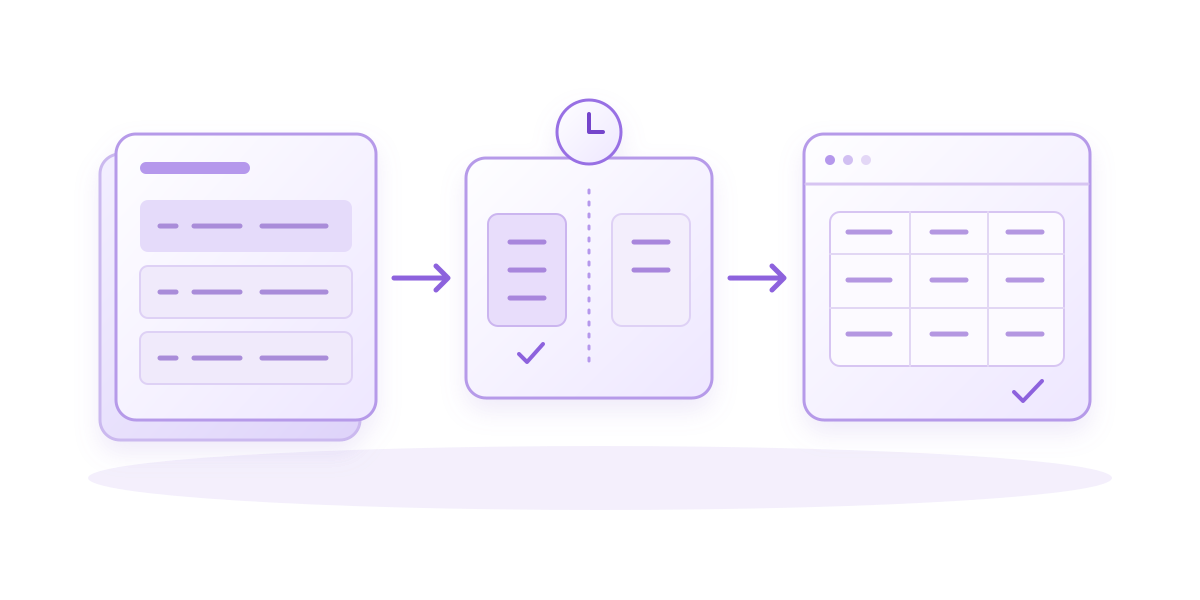
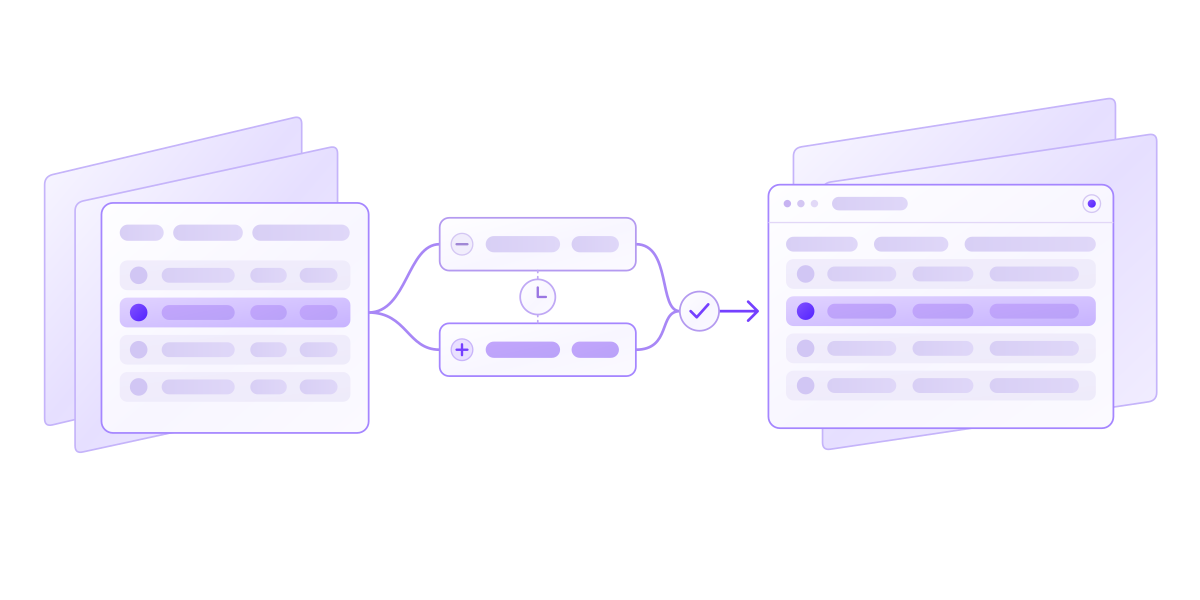
Refine Chapter 8 artwork and responsive layouts

diff --git a/tests/e2e/chapter-eight.spec.ts b/tests/e2e/chapter-eight.spec.ts
@@ -2,8 +2,79 @@ import { expect, seedChapterPrerequisites, test } from './fixtures';
 import { advanceGuidedLesson, expectGuideClearOfTargets } from './guided-run';
 import { subscriptionFrames, subscriptionLectures } from '../../src/chapters/live-applications-subscribe/lecture-scenarios';
 import { solutionFor, subscriptionExercises } from '../../src/chapters/live-applications-subscribe/exercise-scenarios';
+import { LAB_PROGRESS_KEY } from '../../src/progress/labProgress';
 
 const base = '/labs/live-applications-subscribe';
+
+for (const width of [320, 390, 480]) {
+  test(`Chapter 8 phone exercises keep complete table labels and reachable answers at ${width}px`, async ({ page }) => {
+    test.setTimeout(90000);
+    await page.setViewportSize({ width, height: 740 });
+    await page.emulateMedia({ reducedMotion: 'reduce' });
+    for (const exercise of subscriptionExercises) {
+      await page.goto(`${base}/exercises/${exercise.slug}`);
+      for (let question = 0; question < exercise.questions.length; question++) {
+        for (const accepted of [false, true]) {
+          if (accepted) await page.getByRole('button', { name: 'Show Answer', exact: true }).click();
+          const headers = await page.locator('.subscribe-table th').evaluateAll(cells => cells.map(cell => {
+            const range = document.createRange();
+            range.selectNodeContents(cell);
+            return { label: cell.textContent, textHeight: range.getBoundingClientRect().height, lineHeight: parseFloat(getComputedStyle(cell).lineHeight) };
+          }));
+          for (const header of headers) expect(header.textHeight, `${header.label} stays readable on one line`).toBeLessThanOrEqual(header.lineHeight + 1);
+          expect(await page.evaluate(() => document.documentElement.scrollWidth <= document.documentElement.clientWidth)).toBe(true);
+          const questionBox = (await page.locator('.exercise-question').boundingBox())!;
+          const evidence = (await page.getByTestId('subscribe-diagram').boundingBox())!;
+          expect(questionBox.y).toBeGreaterThanOrEqual(evidence.y + evidence.height);
+        }
+        const next = page.locator('[data-shortcut="exercise-forward"]');
+        await next.scrollIntoViewIfNeeded();
+        await expect(next).toBeInViewport();
+        if (question < exercise.questions.length - 1) await next.click();
+      }
+    }
+  });
+}
+
+test('Chapter 8 completed exercise checks match Chapter 7 without wrapping the header', async ({ page, isMobile }) => {
+  test.skip(isMobile, 'The chapter-specific absolute badge placement applies to desktop frames.');
+  await page.addInitScript(({ key, completed }) => localStorage.setItem(key, JSON.stringify({ version: 1, completed })), {
+    key: LAB_PROGRESS_KEY,
+    completed: ['/labs/consistent-reads/exercises/exercise-1', `${base}/exercises/exercise-1`],
+  });
+  for (const viewport of [{ width: 1440, height: 900 }, { width: 1280, height: 640 }]) {
+    await page.setViewportSize(viewport);
+    let reference: number[] | undefined;
+    for (const chapter of ['consistent-reads', 'live-applications-subscribe']) {
+      await page.goto(`/labs/${chapter}/exercises/exercise-1`);
+      const alignment = await page.locator('h1').evaluate(heading => {
+        const range = document.createRange();
+        range.selectNodeContents(heading.firstChild!);
+        const text = range.getBoundingClientRect();
+        const badge = heading.querySelector('.activity-title-check')!.getBoundingClientRect();
+        return [badge.y - text.y, badge.x - text.right, badge.width, badge.height];
+      });
+      if (reference) alignment.forEach((value, index) => expect(value).toBeCloseTo(reference![index]!, 1));
+      reference = alignment;
+      expect(await page.evaluate(() => document.documentElement.scrollHeight <= innerHeight)).toBe(true);
+    }
+  }
+});
+
+test('Chapter 8 landscape guidance keeps long explanations clear of the metrics', async ({ page }) => {
+  await page.setViewportSize({ width: 844, height: 390 });
+  await page.emulateMedia({ reducedMotion: 'reduce' });
+  await page.goto(`${base}/tutorial/lecture-1`);
+  await page.getByRole('button', { name: 'Start guided run', exact: true }).click();
+  const lessons = subscriptionLectures[0]!.lessons;
+  for (const [index, lesson] of lessons.entries()) {
+    const guide = page.locator('.relation-guide[open]');
+    if (lesson.before) await guide.getByRole('button', { name: 'Show effect', exact: true }).click();
+    await expectGuideClearOfTargets(page);
+    await advanceGuidedLesson(page, index === lessons.length - 1);
+  }
+  await expect(page.locator('h1')).toHaveAttribute('aria-description', 'Tutorial completed');
+});
 test('Chapter 8 guided references have distinct variable colors in both themes', async ({ page }) => {
   for (const theme of ['light', 'dark']) {
     await page.goto(`${base}/tutorial/lecture-2`);

diff --git a/src/chapters/live-applications-subscribe/chapter.css b/src/chapters/live-applications-subscribe/chapter.css
@@ -155,7 +155,7 @@
 }
 @media (min-width: 1280px) and (min-height: 640px) {
   .subscribe-exercise-page .guided-lab-title h1 { position: relative; }
-  .subscribe-exercise-page .activity-title-check { position: absolute; }
+  .subscribe-exercise-page .activity-title-check { position: absolute; top: calc(50% + .05em); transform: translateY(-50%); }
 }
 @media (max-width: 767px) {
   .subscribe-workspace { --subscribe-mobile-gutter: 16px; }
@@ -182,8 +182,7 @@
   .subscribe-question-slot { min-height: 0; }
   .subscribe-answer-group :is(select,input) { font-size: 16px; }
   .subscribe-caption { min-height: 70px; }
-  /* Exercises keep the evidence visible beside itself rather than stacking
-     three large cards or putting the diagram behind a toggle. */
+  /* Exercises keep all evidence above the question without a diagram toggle. */
   .subscribe-exercise-layout { grid-template-columns: minmax(0,1fr); gap: 10px; }
   .subscribe-exercise-layout .exercise-question { grid-template-columns: minmax(0,1fr); height: auto; min-height: 0; gap: 14px; }
   .subscribe-exercise-layout .subscribe-answer-groups { max-width: none; }
@@ -196,9 +195,6 @@
   .subscribe-workspace[data-assessment] .subscribe-diagram { padding: 8px; }
   .subscribe-workspace[data-assessment] .subscribe-boundary-label { height: 64px; padding: 0 0 8px; align-items: center; gap: 2px; text-align: center; }
   .subscribe-workspace[data-assessment] .subscribe-assessment-source { display: flex; align-items: center; gap: 8px; margin-bottom: 2px; font-weight: 600; }
-  .subscribe-workspace[data-assessment] .subscribe-trays { grid-template-columns: minmax(0,1fr) var(--subscribe-tray-gap) minmax(0,1fr); padding-left: 0; gap: 0; }
-  .subscribe-workspace[data-assessment] .subscribe-trays::after { display: none; }
-  .subscribe-workspace[data-assessment] .subscribe-divider { width: auto; border-top: 0; border-left: 2px dotted color-mix(in srgb, var(--lab-purple) 65%, var(--lab-border)); }
   .subscribe-workspace[data-assessment] .subscribe-tray { padding: 6px; }
   .subscribe-workspace[data-assessment] .subscribe-tray-heading { grid-template-rows: 28px 28px; margin-bottom: 4px; gap: 0 4px; }
   .subscribe-workspace[data-assessment] .subscribe-tray-heading strong { font-size: 12px; line-height: 14px; }
@@ -208,10 +204,25 @@
   .subscribe-workspace[data-assessment] .subscribe-table :is(th,td) { height: 22px; padding: 2px; }
   .subscribe-workspace[data-assessment] .subscribe-table th { font-size: 11px; }
   .subscribe-workspace[data-assessment] .subscribe-publication-arrow { height: 20px; }
-  .subscribe-workspace[data-assessment] .subscribe-publication-arrow::before { left: calc((100% - var(--subscribe-tray-gap)) / 4 - 1px); }
   .subscribe-workspace[data-assessment] .subscribe-application { padding: 6px; gap: 6px; }
   .subscribe-workspace[data-assessment] .subscribe-application-heading { min-height: 18px; }
   .subscribe-workspace[data-assessment] .subscribe-application-heading > div { display: flex; align-items: center; justify-content: space-between; gap: 8px; width: 100%; }
   .subscribe-exercise-page .exercise-question { padding: 10px; gap: 10px; }
   .subscribe-exercise-page .subscribe-answer-groups { gap: 8px; }
+}
+/* Keep full column labels readable on small phones. Wider phones can place the
+   trays side by side; smaller ones reuse the lecture's stacked flow and gutter. */
+@media (min-width: 480px) and (max-width: 767px) {
+  .subscribe-workspace[data-assessment] .subscribe-trays { grid-template-columns: minmax(0,1fr) var(--subscribe-tray-gap) minmax(0,1fr); padding-left: 0; gap: 0; }
+  .subscribe-workspace[data-assessment] .subscribe-trays::after { display: none; }
+  .subscribe-workspace[data-assessment] .subscribe-divider { width: auto; border-top: 0; border-left: 2px dotted color-mix(in srgb, var(--lab-purple) 65%, var(--lab-border)); }
+  .subscribe-workspace[data-assessment] .subscribe-publication-arrow::before { left: calc((100% - var(--subscribe-tray-gap)) / 4 - 1px); }
+}
+/* Landscape phones need the same compact guide copy as portrait phones. */
+@media (min-width: 640px) and (max-height: 600px) {
+  .subscribe-chapter-page ~ .relation-guide .relation-guide-card { padding: 13px; }
+  .subscribe-chapter-page ~ .relation-guide .relation-guide-card-heading h2 { font-size: 14px; }
+  .subscribe-chapter-page ~ .relation-guide .relation-guide-card > p { font-size: 12px; line-height: 1.45; }
+  .subscribe-chapter-page ~ .relation-guide .relation-guide-phase { margin-top: 6px; }
+  .subscribe-chapter-page ~ .relation-guide .relation-guide-actions { margin-top: 9px; }
 }

diff --git a/UI_LAYOUTS.md b/UI_LAYOUTS.md
@@ -116,13 +116,13 @@ The filter-choice question conceals the reference predicate until acceptance.
 ## Shared component ownership
 
 Chapter overview illustrations are chapter metadata in `chapterRegistry.ts`, backed
-by seven transparent vector `public/*-overview.svg` assets. Each keeps the original
-1774:887 canvas and composition; paths and gradients contain no embedded bitmaps.
+by eight transparent vector `public/*-overview.svg` assets. Each uses the same
+1774:887 drawing canvas; paths and gradients contain no embedded bitmaps.
 The PNG counterparts remain only as raster images for link-preview metadata.
 The hero retains the reference
 text-column widths and spacing above Learn more. Desktop image frames are 160px
 high, with 180px for the denser Chapter 3 diagram and the wider Chapters 2 and 4
-compositions, and 172px for the Chapter 6 and 7 timelines. The Chapter 2 and 4
+compositions, and 172px for the Chapter 6–8 illustrations. The Chapter 2 and 4
 images cap at 420px within their existing 444px columns.
 Chapter 1 uses a slightly larger 400px image column (260px below 1350px) to balance
 its more open composition, while keeping the same frame height and section gaps.
@@ -131,14 +131,14 @@ taller diagrams. `chapter-overview.css` preserves the compact-screen hiding rule
 and smaller frames below 1350px. SVG transparency blends naturally into both themes;
 overview and reused completion artwork need no color filters or blend modes.
 
-All seven chapter recaps use `ChapterCompletionPanel`, with chapter-owned copy
+All eight chapter recaps use `ChapterCompletionPanel`, with chapter-owned copy
 and three numbered topics in `chapterCompletionContent.ts`. Topic headings place
 01–03 boxes beside their titles, using the sidebar number box dimensions and
 rounded shape, with descriptions underneath. The shared
 `chapter-completion.css` preserves Chapter 1's header, illustration, topic cards,
 key-idea callout, footer and compact-screen treatment. Each recap uses its own
 overview SVG. The panel imports this stylesheet directly so its rules load with
-the component during live reload. Chapters 1–6 lead to the next chapter; Chapter 7 returns to the
+the component during live reload. Chapters 1–7 lead to the next chapter; Chapter 8 returns to the
 learning path. `ChapterCompletionDialog` still owns completion eligibility and
 the remaining-activities panel, including its existing exercise-only styling.
 
@@ -423,7 +423,12 @@ management. Only the visible activity owns the browser title, including on resiz
   row and a shorter connector, preserving the shared playback baseline. Lecture
   evidence sits directly below the tables and above playback at every width.
   Single-option history pickers are omitted, keeping tray heading and
-  row dimensions fixed.
+  row dimensions fixed. Exercise trays reuse the stacked lecture flow below
+  480px to keep table column labels on one line; wider phone exercises retain
+  side-by-side trays. Completion checks match the shared exercise text alignment
+  without widening the title or wrapping its toolbar. In short landscape windows,
+  Chapter 8 guide cards reuse the phone text and spacing so long explanations
+  remain clear of the highlighted metrics.
 
 - `useResponsiveLabLayout` measures each activity's actual content width, title,
   and controls, including sidebar changes and saved completion checkmarks.

diff --git a/src/chapters/live-applications-subscribe/README.md b/src/chapters/live-applications-subscribe/README.md
@@ -74,9 +74,12 @@ The same order is used on phones.
 On desktop viewports the application label sits beside its
 table; short screens omit redundant footer copy to preserve question and navigation
 space. On phones lecture trays stack and the divider becomes horizontal;
-exercise trays stay side by side in a compact diagram above the question, with
-a source label replacing the summary strip. Very narrow or short
+exercise trays stay side by side from 480px, and use the same stacked flow below
+480px so column labels remain readable. The diagram stays above the question,
+with a source label replacing the summary strip. Very narrow or short
 windows retain normal document flow so essential content is never clipped.
+Short landscape windows reuse compact phone guide typography and spacing so
+long explanations stay separate from their highlighted evidence.
 
 `simulation.test.ts` checks boundary equality, full-row replacement in either
 arrival order, copy counts, quiet progress, later-data evidence, missing baselines,
